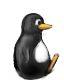
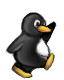
Improve Big Tux graphics
Changes originally submitted in the forum [1]. This updates the following
graphics:

- Big Tux Jumping
- Big Tux Walking
- Big Tux Buttjump

The buttjump graphic underwent a major redesign and the sprite now features an
animation.

[1]: <https://forum.freegamedev.net/viewtopic.php?f=68&t=7925>

[ci skip]

Changed region(s): [[0.0938, 0.15, 0.9375, 1.0], [0.375, 0.6, 0.4688, 0.8], [0.4375, 0.8, 0.5312, 0.825]]

diff --git a/src/object/player.cpp b/src/object/player.cpp
@@ -1225,7 +1225,7 @@ Player::draw(DrawingContext& context)
     sprite->set_action(sa_prefix+"-kick"+sa_postfix);
   }
   else if ((wants_buttjump || does_buttjump) && is_big()) {
-    sprite->set_action(sa_prefix+"-buttjump"+sa_postfix);
+    sprite->set_action(sa_prefix+"-buttjump"+sa_postfix, 1);
   }
   else if (!on_ground() || fall_mode != ON_GROUND) {
     if(physic.get_velocity_x() != 0 || fall_mode != ON_GROUND) {
